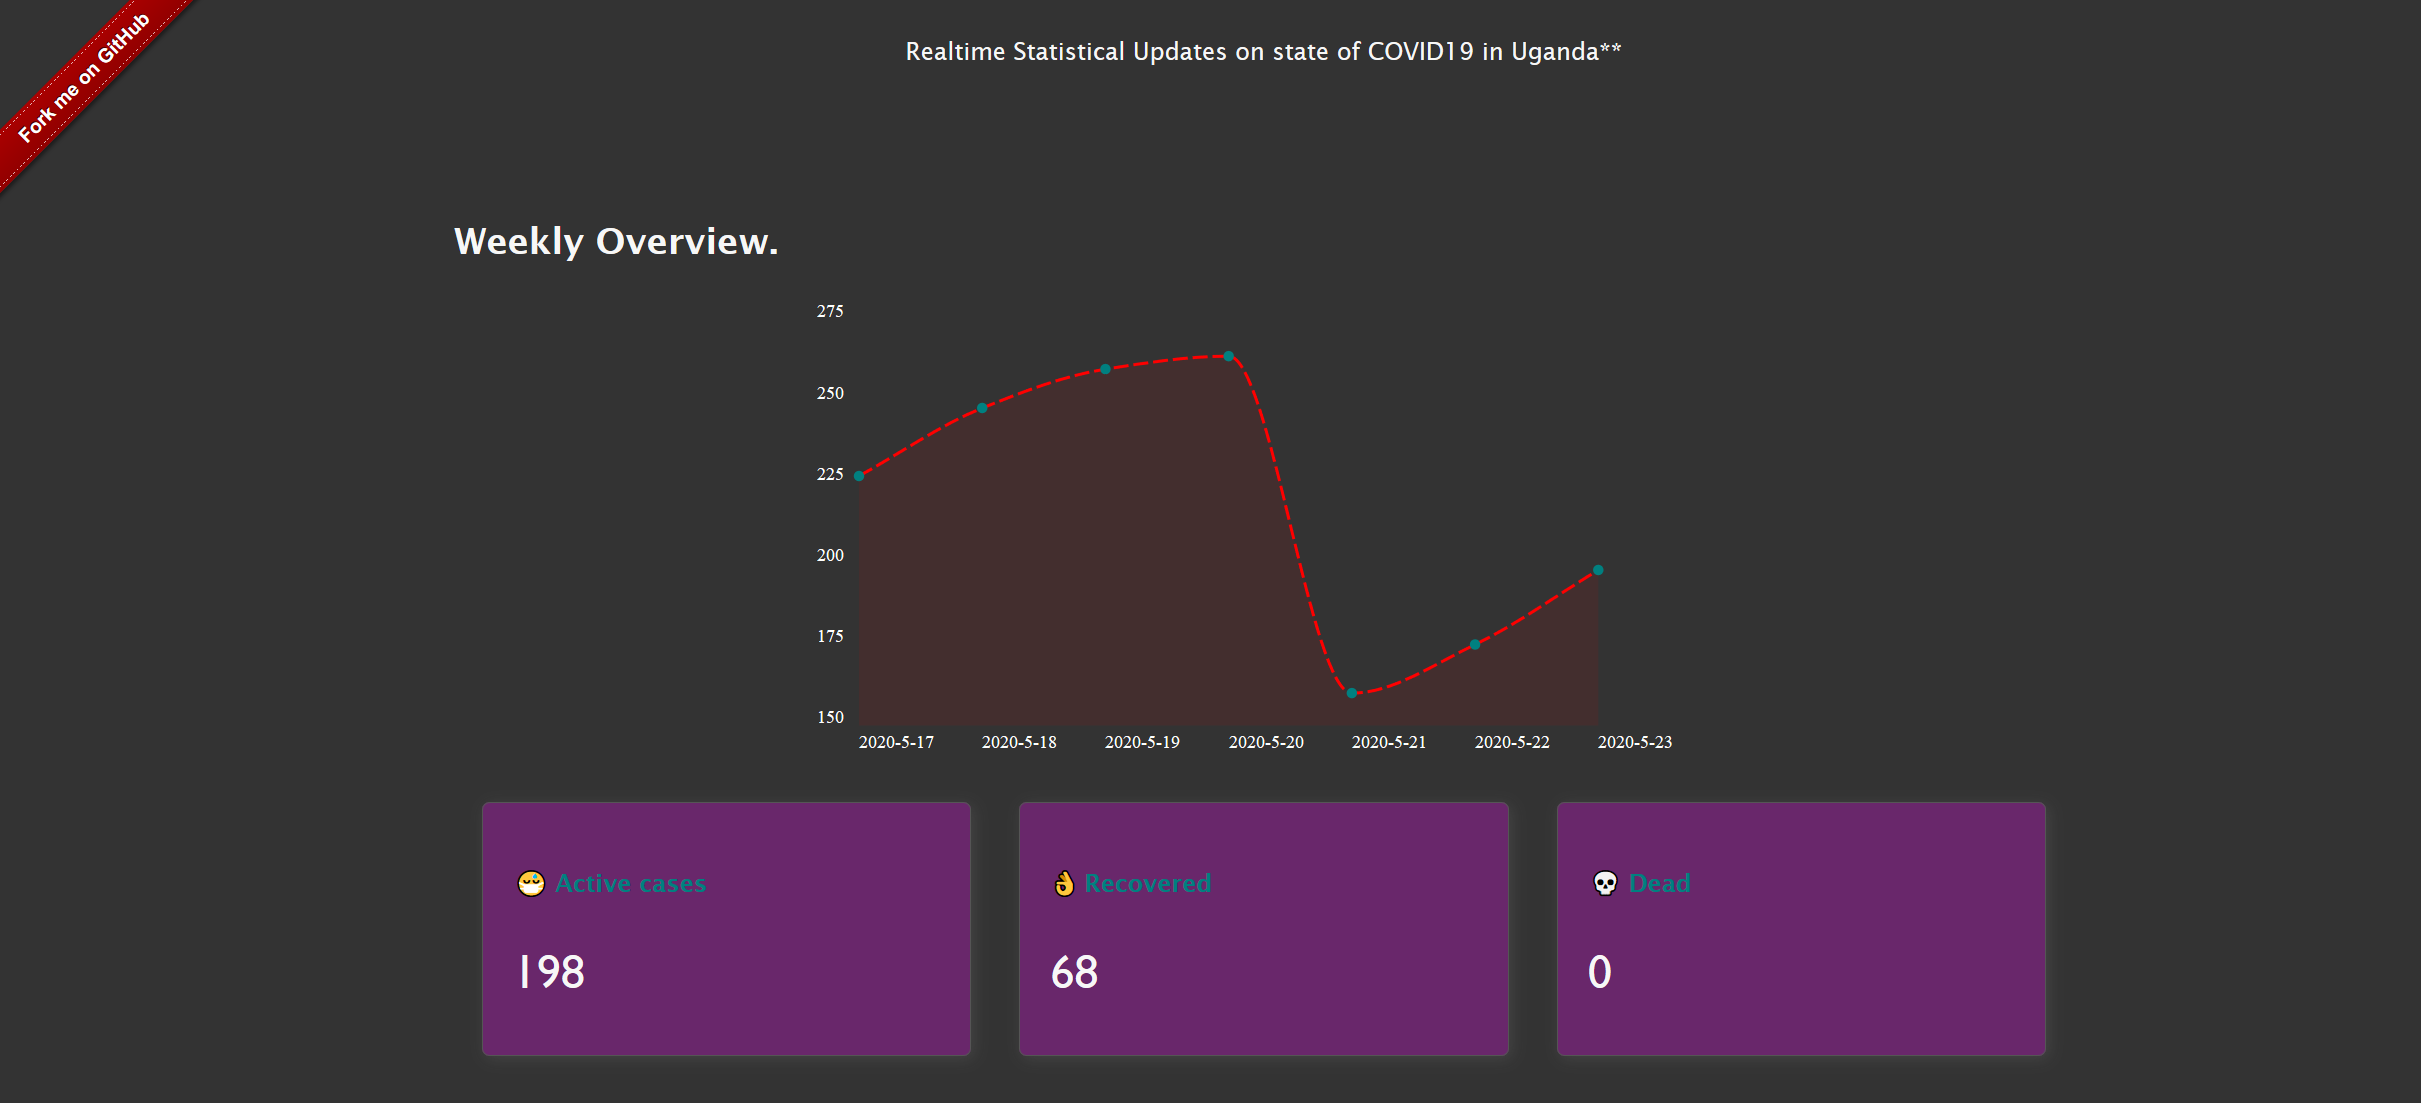
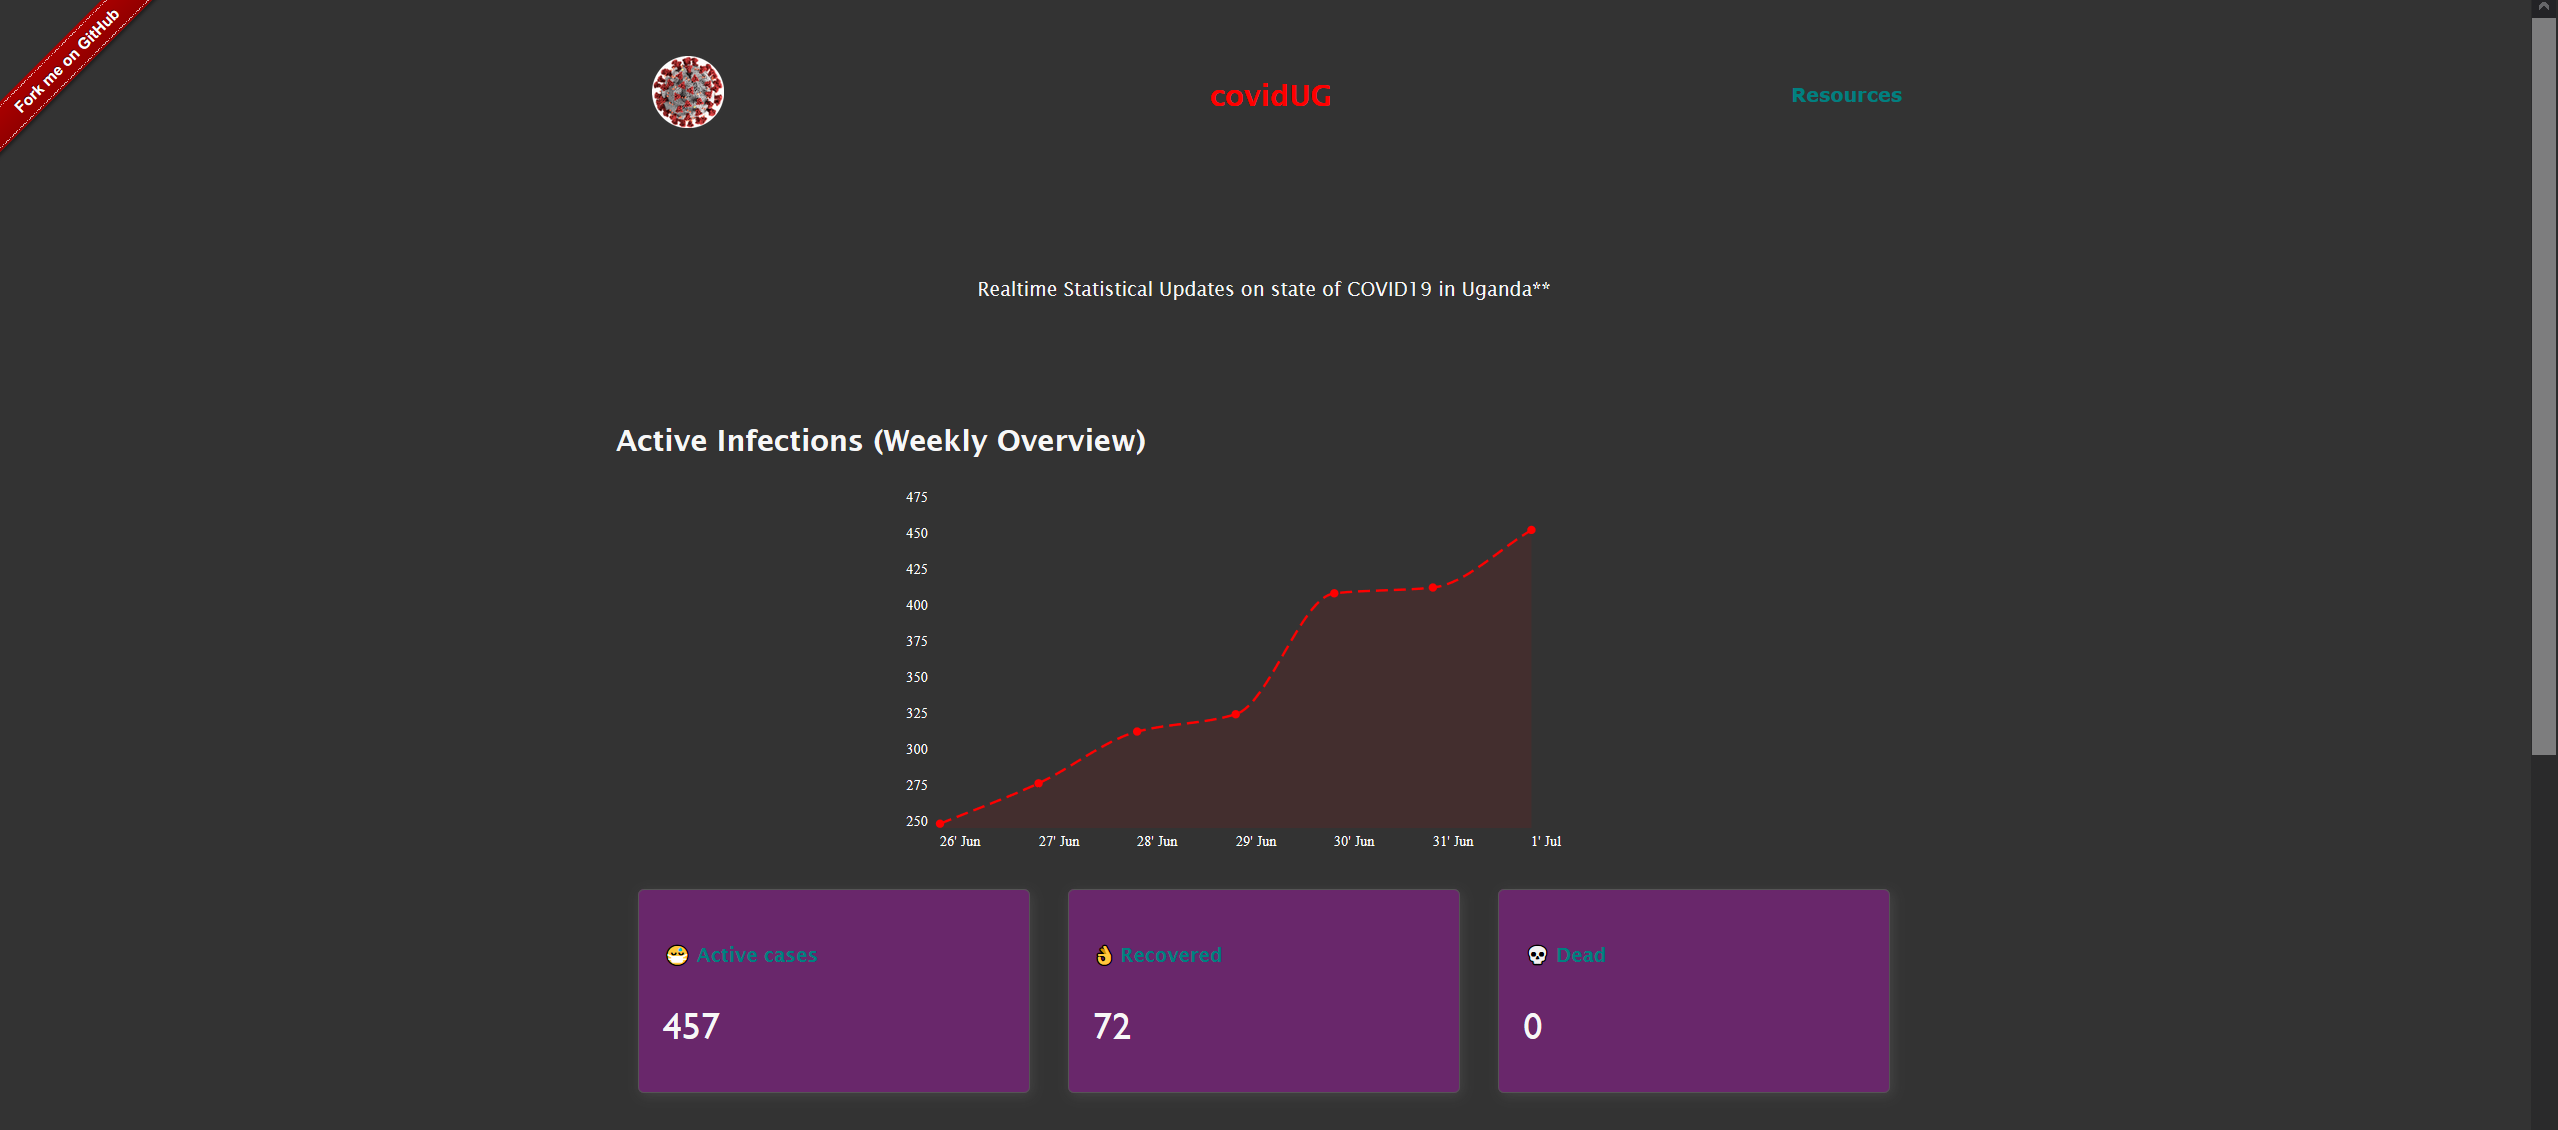
fixed new month bug

diff --git a/js/script.js b/js/script.js
@@ -39,32 +39,15 @@ fetch("https://pomber.github.io/covid19/timeseries.json")
                 axisX: {
                     onlyInteger: true,
                     labelInterpolationFnc: function (value) {
-                        return `${value.split('-')[2]}' ${months[value.split('-')[1]]}`;
+                        console.log(`${months[value.split('-')[1]]} | ${value.split('-')[1]} | ${months}`);
+
+                        return `${value.split('-')[2]}' ${months[ value.split('-')[1] -1 ]}`;
                     }
                 }
             };
 
             
             var responsiveOptions = [
-
-                ['screen and (min-width: 640px) and (max-width: 1024px)', {
-                  showPoint: false,
-                  axisX: {
-                    labelInterpolationFnc: function(value) {
-                      return 'bvb' + value;
-                    }
-                  }
-                }],
-
-                ['screen and (max-width: 640px)', {
-                  showLine: true,
-                  showArea: false,
-                  axisX: {
-                    labelInterpolationFnc: function(value) {
-                      return ``;
-                    }
-                  }
-                }]
               ];
 
             new Chartist.Line('#chart', data, options, responsiveOptions);

diff --git a/index.html b/index.html
@@ -34,7 +34,7 @@
     <main>
 
         <aside>
-            <h2>Weekly Overview.</h2>
+            <h2>Active Infections (Weekly Overview).</h2>
             <section id="chart">
             </section>
         </aside>
